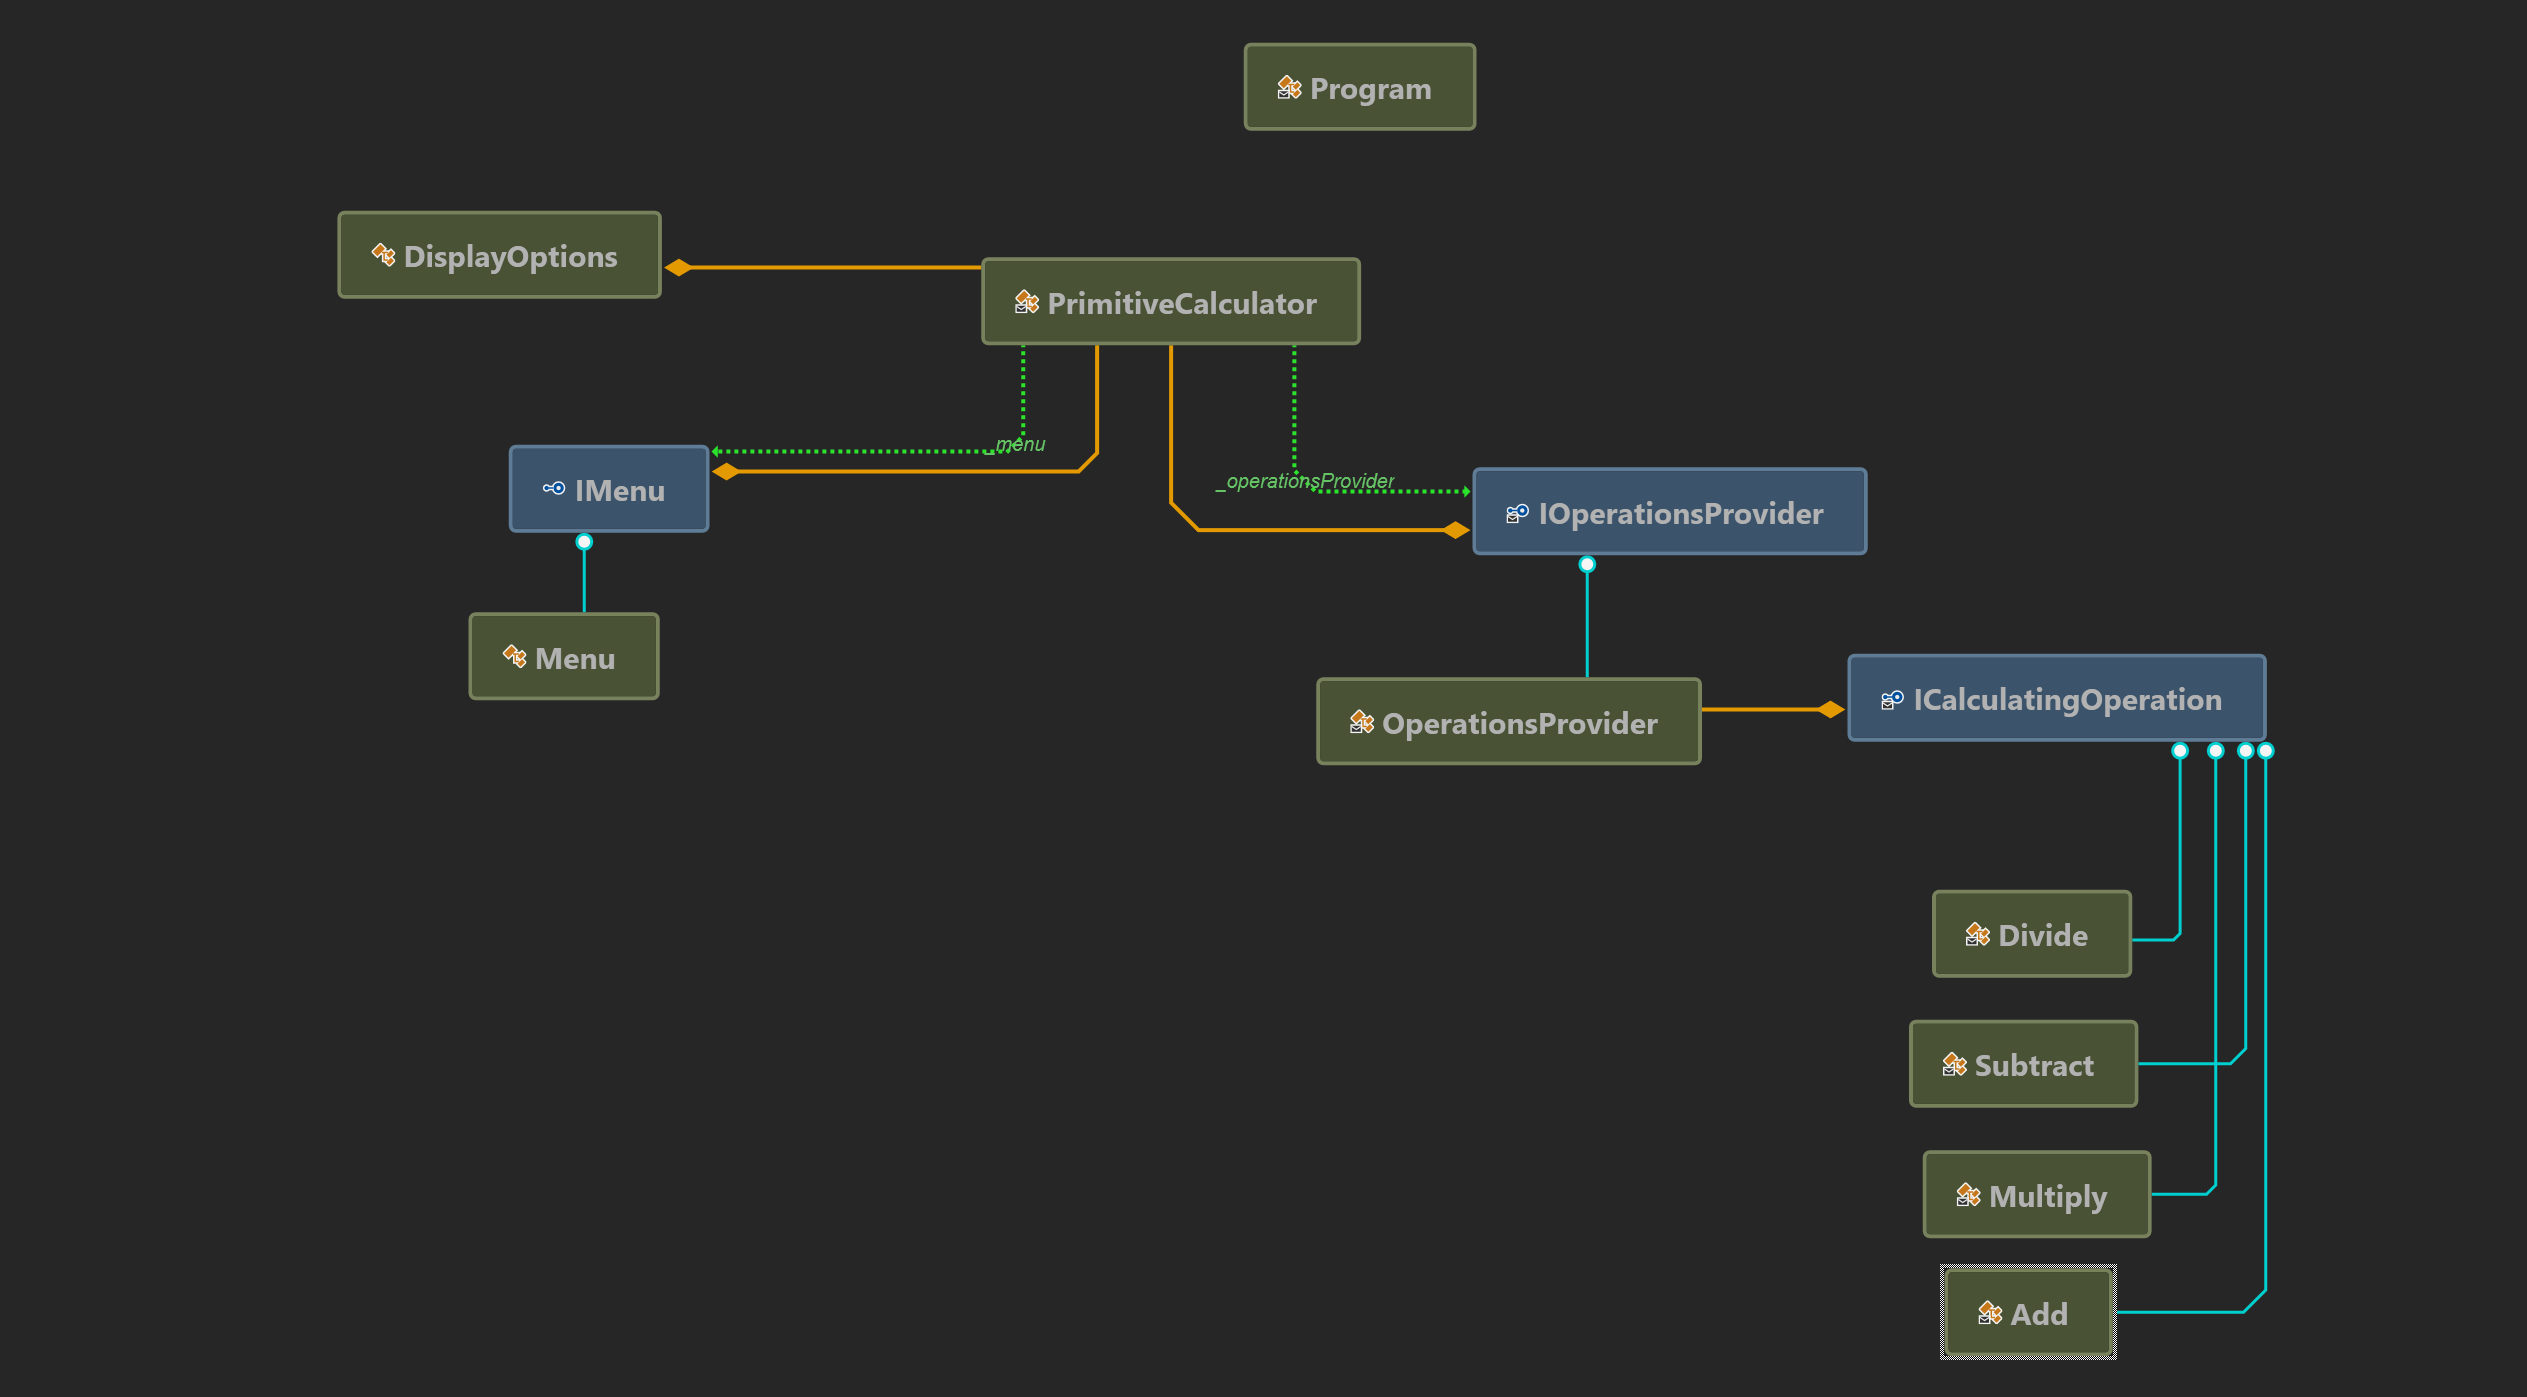
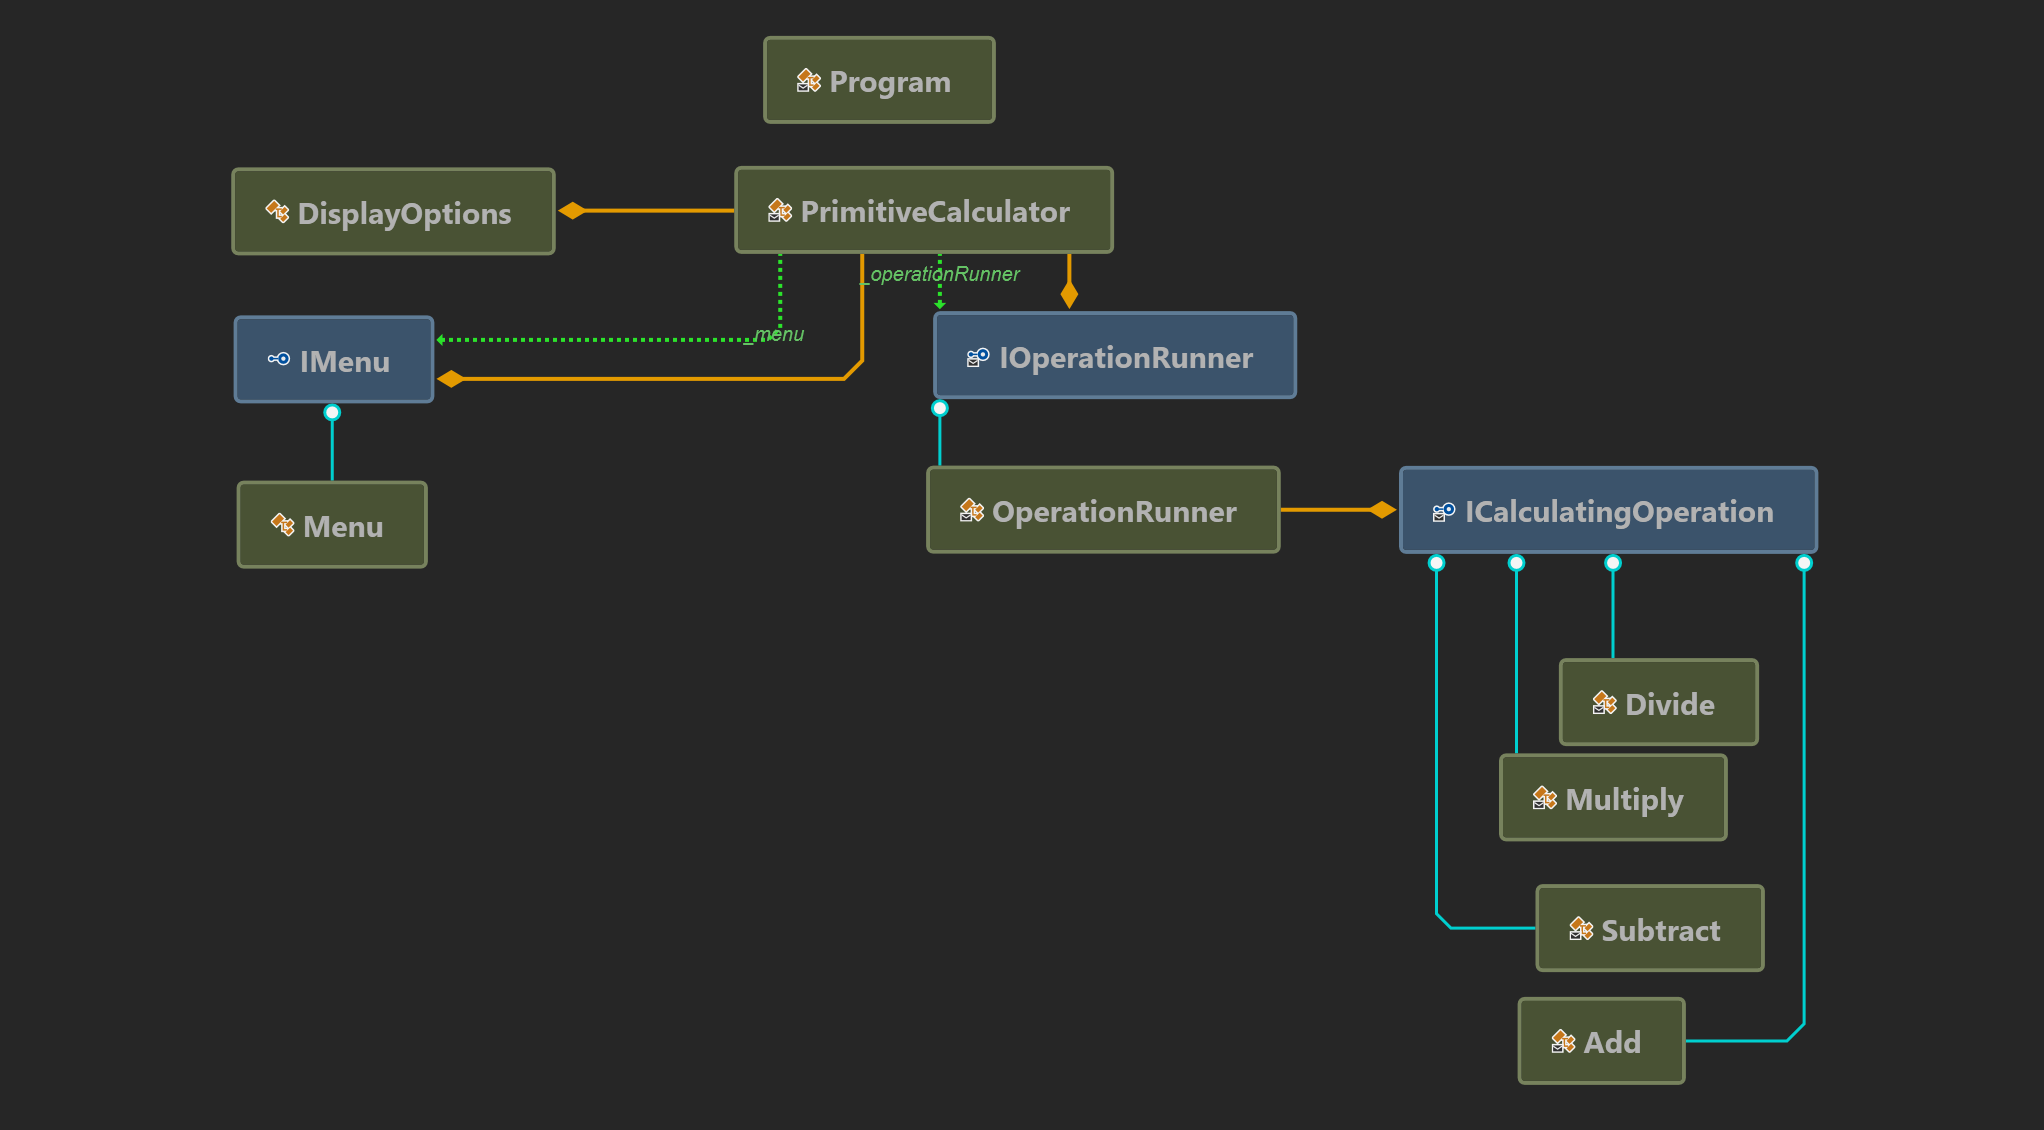
provider renamed into runner

Changed region(s): [[0.0925, 0.031, 0.9247, 0.9912]]

diff --git a/Calculator/Program.cs b/Calculator/Program.cs
@@ -1,11 +1,8 @@
 using Microsoft.Extensions.Configuration;
 using Microsoft.Extensions.DependencyInjection;
 using Microsoft.Extensions.DependencyInjection.Extensions;
-using System;
-using System.Collections.Generic;
-using System.Text.Json.Serialization;
 using Microsoft.Extensions.Options;
-using Newtonsoft.Json;
+using System;
 
 namespace Calculator
 {
@@ -51,7 +48,7 @@ namespace Calculator
             serviceCollection.Configure<DisplayOptions>(configuration.GetSection(nameof(DisplayOptions)));
 
             serviceCollection.TryAddScoped<IMenu, Menu>();
-            serviceCollection.TryAddSingleton<IOperationsProvider, OperationsProvider>();
+            serviceCollection.TryAddSingleton<IOperationRunner, OperationRunner>();
             serviceCollection.TryAddSingleton<PrimitiveCalculator>();
 
             //serviceCollection.TryAddEnumerable(new[]
@@ -75,7 +72,7 @@ namespace Calculator
             return serviceCollection.BuildServiceProvider();
             #endregion
         }
-        
+
         /// <summary> Pure DI composition root </summary>
         private static PrimitiveCalculator CreatePrimitiveCalculator_Pure()
         {
@@ -93,14 +90,14 @@ namespace Calculator
                 new Multiply(),
                 new Divide()
             };
-            IOperationsProvider operationsProvider = new OperationsProvider(operations);
+            IOperationRunner operationRunner = new OperationRunner(operations);
 
             DisplayOptions displayOptions = new();
             configuration.Bind(nameof(DisplayOptions), displayOptions);
             var displaySettings = Options.Create(displayOptions);
-            
-            var calculator = new PrimitiveCalculator(menu, operationsProvider, displaySettings);
-            
+
+            var calculator = new PrimitiveCalculator(menu, operationRunner, displaySettings);
+
             return calculator;
         }
     }

diff --git a/Calculator/PrimitiveCalculator.cs b/Calculator/PrimitiveCalculator.cs
@@ -6,27 +6,27 @@ namespace Calculator
     internal class PrimitiveCalculator
     {
         private readonly IMenu _menu;
-        private readonly IOperationsProvider _operationsProvider;
+        private readonly IOperationRunner _operationRunner;
         private readonly IOptions<DisplayOptions> _config;
 
         public PrimitiveCalculator(
             IMenu menu
-            , IOperationsProvider operationsProvider
+            , IOperationRunner operationRunner
             , IOptions<DisplayOptions> config)
         {
             _menu = menu;
-            _operationsProvider = operationsProvider;
+            _operationRunner = operationRunner;
             _config = config;
         }
 
         public void Run()
         {
-            var operationNames = _operationsProvider.GetAllOperationNames();
+            var operationNames = _operationRunner.GetAllOperationNames();
             
             var operationIndex = _menu.SelectOneOperationIndex(operationNames);
             var (lhs, rhs) = _menu.GetOperands();
 
-            var result = _operationsProvider.Calculate(operationIndex, lhs, rhs);
+            var result = _operationRunner.Calculate(operationIndex, lhs, rhs);
             var roundedResult = Math.Round(result, _config.Value.DecimalDigits);
 
             _menu.DisplayResult(roundedResult);

diff --git a/Calculator/OperationsRunner.cs b/Calculator/OperationsRunner.cs
@@ -4,17 +4,17 @@ using System.Linq;
 
 namespace Calculator
 {
-    internal interface IOperationsProvider
+    internal interface IOperationRunner
     {
         IReadOnlyList<string> GetAllOperationNames();
         double Calculate(int operationIndex, double lhs, double rhs);
     }
 
-    internal class OperationsProvider : IOperationsProvider
+    internal class OperationRunner : IOperationRunner
     {
         private readonly IReadOnlyList<ICalculatingOperation> _operations;
 
-        public OperationsProvider(IEnumerable<ICalculatingOperation> operations)
+        public OperationRunner(IEnumerable<ICalculatingOperation> operations)
         {
             _operations = operations?.ToArray() ?? throw new ArgumentNullException(nameof(operations));
         }

diff --git a/Calculator/CalculatingOperation.cs b/Calculator/CalculatingOperation.cs
@@ -1,6 +1,4 @@
-using System;
-
-namespace Calculator
+namespace Calculator
 {
     internal interface ICalculatingOperation
     {
@@ -34,8 +32,8 @@ namespace Calculator
 
     //internal class Root : ICalculatingOperation
     //{
-    //    public double Calculate(double number, double power) => power == 0.0 
-    //        ? double.NaN 
+    //    public double Calculate(double number, double power) => power == 0.0
+    //        ? double.NaN
     //        : Math.Pow(number, 1 / power);
     //}
 }
